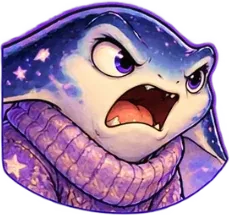
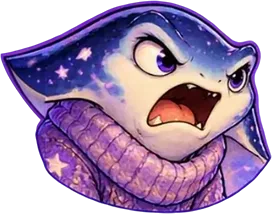
Rift of Reason: repair the 6 cropped creature images (#163, art slice C)
The tremendoodle-swiftlet and altmanta-beastie source sheets packed the
poses so tightly that splitting them cut hair, a tail, wings and fur off
with a straight edge, or left a sliver of the next pose in the canvas.
Each of the six images is now an edit of the shipped image that completes
only the cut part: qwen21_edit on the bust padded and enlarged 4x, 2 seeds
per edit, then Pillow scales the pick back to the shipped pixel scale.

- tremendoodle-angry (right: neighbour sliver), -attack (tail pom-pom),
  -defeated (ear); altmanta-angry and -defeated (wing tip); beastie-angry
  (fur and shoulder). tremendoodle-angry is FAL-271 trial pick #11.
- Measured: every pick registers on the shipped pixels at (0, 0) px with a
  mean colour change of 2.5-3.5/255 in the untouched part, heights within
  1-2 px of the shipped ones, no new detached clumps. The altmanta wings
  are kept short, so the face draws at the same size as altmanta-smug's
  in the square contain portrait boxes (110x87 vs 110x89).
- New sources <name>-163.png in 4-caricatures/ as "single" entries; the six
  old figures are null in sheets.json and the original sheets are kept.
  Prompts, seeds, rounds and picks are in
  design/source-assets/4-caricatures/crop-repair-163-generation.json.

diff --git a/AOK/Mathematics/Rift of Reason/data/assets.js b/AOK/Mathematics/Rift of Reason/data/assets.js
@@ -106,9 +106,9 @@
         'avatar/raven-girl/waking': { file: 'avatars/raven-girl-waking.webp', w: 638, h: 620 },
         'avatar/raven-girl/walk': { file: 'avatars/raven-girl-walk.webp', w: 1566, h: 369, frames: 6, frameWidth: 261, frameHeight: 369 },
         'avatar/raven-girl/worried': { file: 'avatars/raven-girl-worried.webp', w: 211, h: 240 },
-        'creature/altmanta/angry': { file: 'creatures/altmanta-angry.webp', w: 230, h: 215 },
+        'creature/altmanta/angry': { file: 'creatures/altmanta-angry.webp', w: 272, h: 214 },
         'creature/altmanta/attack': { file: 'creatures/altmanta-attack.webp', w: 409, h: 303 },
-        'creature/altmanta/defeated': { file: 'creatures/altmanta-defeated.webp', w: 233, h: 234 },
+        'creature/altmanta/defeated': { file: 'creatures/altmanta-defeated.webp', w: 258, h: 232 },
         'creature/altmanta/idle': { file: 'creatures/altmanta-idle.webp', w: 372, h: 290 },
         'creature/altmanta/shocked': { file: 'creatures/altmanta-shocked.webp', w: 246, h: 240 },
         'creature/altmanta/smug': { file: 'creatures/altmanta-smug.webp', w: 260, h: 211 },
@@ -130,7 +130,7 @@
         'creature/beansprout/idle': { file: 'creatures/beansprout-idle.webp', w: 257, h: 381 },
         'creature/beansprout/shocked': { file: 'creatures/beansprout-shocked.webp', w: 186, h: 240 },
         'creature/beansprout/smug': { file: 'creatures/beansprout-smug.webp', w: 212, h: 240 },
-        'creature/beastie/angry': { file: 'creatures/beastie-angry.webp', w: 238, h: 240 },
+        'creature/beastie/angry': { file: 'creatures/beastie-angry.webp', w: 256, h: 240 },
         'creature/beastie/attack': { file: 'creatures/beastie-attack.webp', w: 389, h: 356 },
         'creature/beastie/defeated': { file: 'creatures/beastie-defeated.webp', w: 228, h: 240 },
         'creature/beastie/idle': { file: 'creatures/beastie-idle.webp', w: 325, h: 334 },
@@ -389,9 +389,9 @@
         'creature/swiftlet/idle': { file: 'creatures/swiftlet-idle.webp', w: 302, h: 328 },
         'creature/swiftlet/shocked': { file: 'creatures/swiftlet-shocked.webp', w: 206, h: 240 },
         'creature/swiftlet/smug': { file: 'creatures/swiftlet-smug.webp', w: 235, h: 240 },
-        'creature/tremendoodle/angry': { file: 'creatures/tremendoodle-angry.webp', w: 233, h: 240 },
-        'creature/tremendoodle/attack': { file: 'creatures/tremendoodle-attack.webp', w: 417, h: 342 },
-        'creature/tremendoodle/defeated': { file: 'creatures/tremendoodle-defeated.webp', w: 222, h: 240 },
+        'creature/tremendoodle/angry': { file: 'creatures/tremendoodle-angry.webp', w: 225, h: 240 },
+        'creature/tremendoodle/attack': { file: 'creatures/tremendoodle-attack.webp', w: 418, h: 341 },
+        'creature/tremendoodle/defeated': { file: 'creatures/tremendoodle-defeated.webp', w: 257, h: 239 },
         'creature/tremendoodle/idle': { file: 'creatures/tremendoodle-idle.webp', w: 298, h: 376 },
         'creature/tremendoodle/shocked': { file: 'creatures/tremendoodle-shocked.webp', w: 216, h: 240 },
         'creature/tremendoodle/smug': { file: 'creatures/tremendoodle-smug.webp', w: 233, h: 240 },
